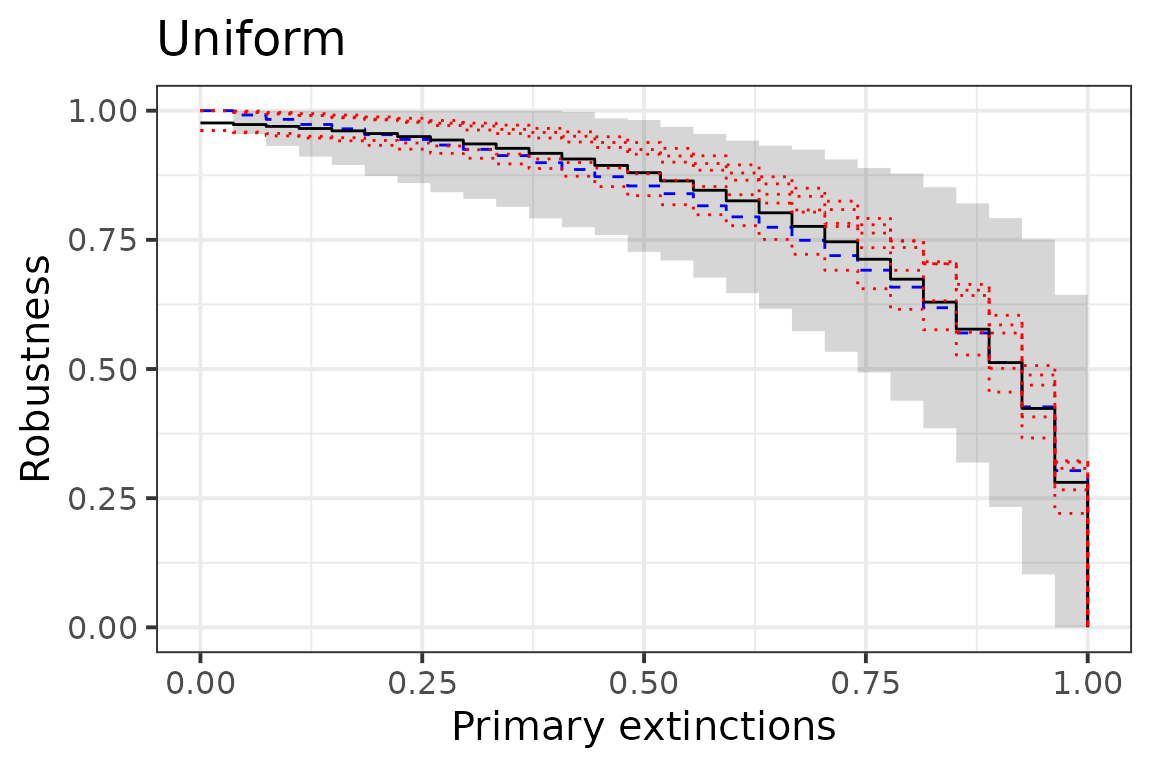
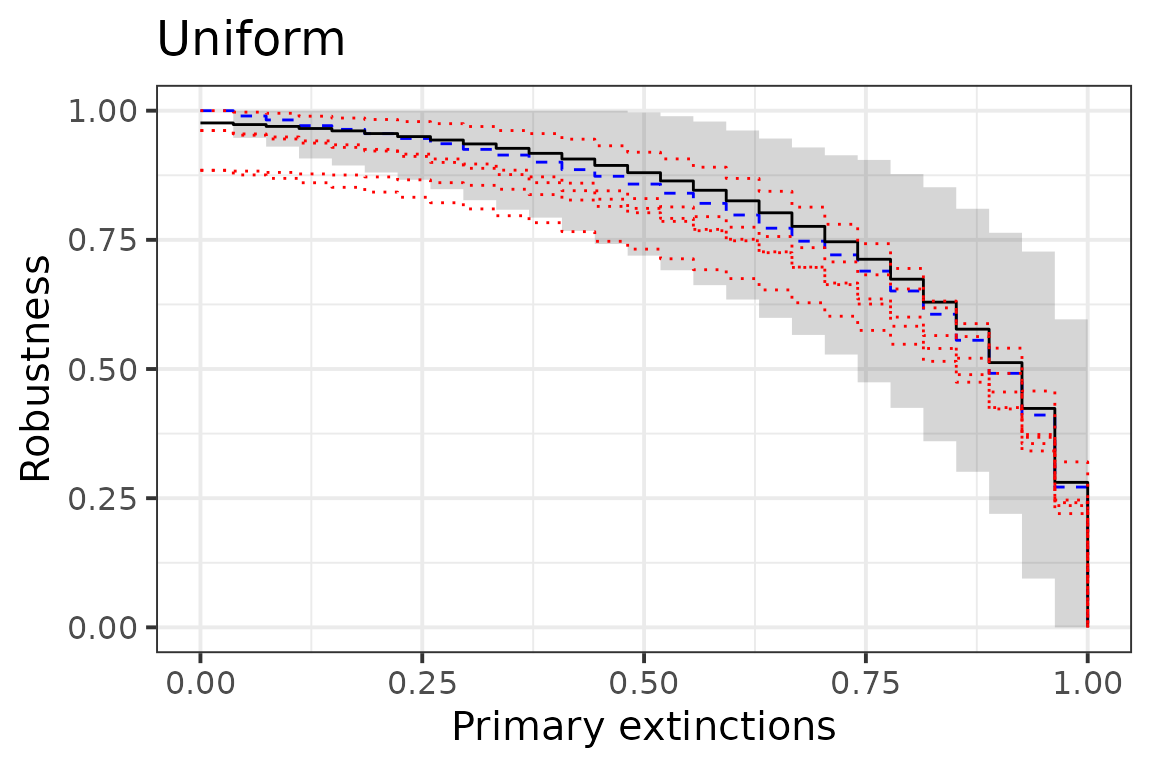
Deploying to gh-pages from @ Chabert-Liddell/robber@71d9368f2d7176ad4188ecf005f1a660fdf2be77 🚀

diff --git a/articles/topological-analysis.html b/articles/topological-analysis.html
@@ -156,20 +156,20 @@ host-parasite network and the default uniform extinction sequence:</p>
 <span><span class="co">#&gt; [1] 1</span></span>
 <span><span class="co">#&gt; </span></span>
 <span><span class="co">#&gt; $fun</span></span>
-<span><span class="co">#&gt;  [1] 1.0000000 0.9916667 0.9832051 0.9733333 0.9648718 0.9535897 0.9443590</span></span>
-<span><span class="co">#&gt;  [8] 0.9334615 0.9251282 0.9130769 0.8993590 0.8861538 0.8721795 0.8543590</span></span>
-<span><span class="co">#&gt; [15] 0.8393590 0.8158974 0.7944872 0.7743590 0.7491026 0.7194872 0.6912821</span></span>
-<span><span class="co">#&gt; [22] 0.6584615 0.6185897 0.5697436 0.5124359 0.4266667 0.3033333 0.0000000</span></span>
+<span><span class="co">#&gt;  [1] 1.0000000 0.9897436 0.9820513 0.9710256 0.9638462 0.9555128 0.9461538</span></span>
+<span><span class="co">#&gt;  [8] 0.9360256 0.9251282 0.9141026 0.9003846 0.8858974 0.8730769 0.8579487</span></span>
+<span><span class="co">#&gt; [15] 0.8402564 0.8206410 0.7980769 0.7725641 0.7474359 0.7208974 0.6894872</span></span>
+<span><span class="co">#&gt; [22] 0.6510256 0.6060256 0.5556410 0.4916667 0.4108974 0.2715385 0.0000000</span></span>
 <span><span class="co">#&gt; </span></span>
 <span><span class="co">#&gt; $sd</span></span>
-<span><span class="co">#&gt;  [1] 0.00000000 0.01846516 0.02572845 0.03112308 0.03501023 0.03998690</span></span>
-<span><span class="co">#&gt;  [7] 0.04221150 0.04564562 0.04786856 0.04962307 0.05388641 0.05580792</span></span>
-<span><span class="co">#&gt; [13] 0.05643018 0.06378500 0.06460539 0.06950132 0.07375911 0.07891261</span></span>
-<span><span class="co">#&gt; [19] 0.08787590 0.09310677 0.09896924 0.10990955 0.11666210 0.12542198</span></span>
-<span><span class="co">#&gt; [25] 0.13975252 0.16204343 0.17012747 0.00000000</span></span>
+<span><span class="co">#&gt;  [1] 0.00000000 0.02117946 0.02581197 0.03174946 0.03495177 0.03759223</span></span>
+<span><span class="co">#&gt;  [7] 0.03991342 0.04398226 0.04919383 0.05290191 0.05368650 0.05925408</span></span>
+<span><span class="co">#&gt; [13] 0.06556936 0.06926744 0.07453678 0.07917331 0.08179364 0.08676853</span></span>
+<span><span class="co">#&gt; [19] 0.09072442 0.09642326 0.10760560 0.11311958 0.12290549 0.12727413</span></span>
+<span><span class="co">#&gt; [25] 0.13600784 0.15823613 0.16228038 0.00000000</span></span>
 <span><span class="co">#&gt; </span></span>
 <span><span class="co">#&gt; $auc</span></span>
-<span><span class="co">#&gt; [1] 0.7988129</span></span>
+<span><span class="co">#&gt; [1] 0.7954463</span></span>
 <span><span class="co">#&gt; </span></span>
 <span><span class="co">#&gt; attr(,"class")</span></span>
 <span><span class="co">#&gt; [1] "robber"</span></span>
@@ -258,7 +258,7 @@ Block Model parameters.</p>
 <p>As we can see the two robustness statistics are very close:</p>
 <div class="sourceCode" id="cb8"><pre class="downlit sourceCode r">
 <code class="sourceCode R"><span><span class="va">rob_emp_unif</span><span class="op">$</span><span class="va">auc</span></span>
-<span><span class="co">#&gt; [1] 0.7988129</span></span>
+<span><span class="co">#&gt; [1] 0.7954463</span></span>
 <span><span class="va">rob_lbm_unif</span><span class="op">$</span><span class="va">auc</span></span>
 <span><span class="co">#&gt; [1] 0.808319</span></span></code></pre></div>
 <p>And we can plot the two curves (the empirical one in blue and the LBM
@@ -304,9 +304,9 @@ about a worst-case and best-case scenario.</p>
 <code class="sourceCode R"><span><span class="va">rob_emp_dec</span> <span class="op">&lt;-</span> <span class="fu"><a href="../reference/robustness_emp.html">robustness_emp</a></span><span class="op">(</span><span class="va">hostparasite</span>, ext_seq <span class="op">=</span> <span class="st">"decreasing"</span><span class="op">)</span></span>
 <span><span class="va">rob_emp_inc</span> <span class="op">&lt;-</span> <span class="fu"><a href="../reference/robustness_emp.html">robustness_emp</a></span><span class="op">(</span><span class="va">hostparasite</span>, ext_seq <span class="op">=</span> <span class="st">"increasing"</span><span class="op">)</span></span>
 <span><span class="va">rob_emp_dec</span><span class="op">$</span><span class="va">auc</span></span>
-<span><span class="co">#&gt; [1] 0.5795347</span></span>
+<span><span class="co">#&gt; [1] 0.5795964</span></span>
 <span><span class="va">rob_emp_inc</span><span class="op">$</span><span class="va">auc</span></span>
-<span><span class="co">#&gt; [1] 0.8916809</span></span></code></pre></div>
+<span><span class="co">#&gt; [1] 0.8921368</span></span></code></pre></div>
 <p>The above method is very sensitive to the network sampling, in
 particular for increasing connection. One way to counter that is to
 consider that the order of extinction is a function of the degree, for
@@ -317,9 +317,9 @@ example it might depends linearly on it.</p>
 <span><span class="va">rob_emp_inc_lin</span> <span class="op">&lt;-</span> <span class="fu"><a href="../reference/robustness_emp.html">robustness_emp</a></span><span class="op">(</span><span class="va">hostparasite</span>, ext_seq <span class="op">=</span> <span class="st">"increasing"</span>, </span>
 <span>                                  method <span class="op">=</span> <span class="st">"linear"</span><span class="op">)</span></span>
 <span><span class="va">rob_emp_dec_lin</span><span class="op">$</span><span class="va">auc</span></span>
-<span><span class="co">#&gt; [1] 0.6975736</span></span>
+<span><span class="co">#&gt; [1] 0.6975166</span></span>
 <span><span class="va">rob_emp_inc_lin</span><span class="op">$</span><span class="va">auc</span></span>
-<span><span class="co">#&gt; [1] 0.8449383</span></span></code></pre></div>
+<span><span class="co">#&gt; [1] 0.8419468</span></span></code></pre></div>
 <p>As we can see the obtained robustness values are less extreme and
 closer to the one of a uniform primary extinctions distribution.</p>
 <p>Using the LBM, we can compute a robustness where the extinction
